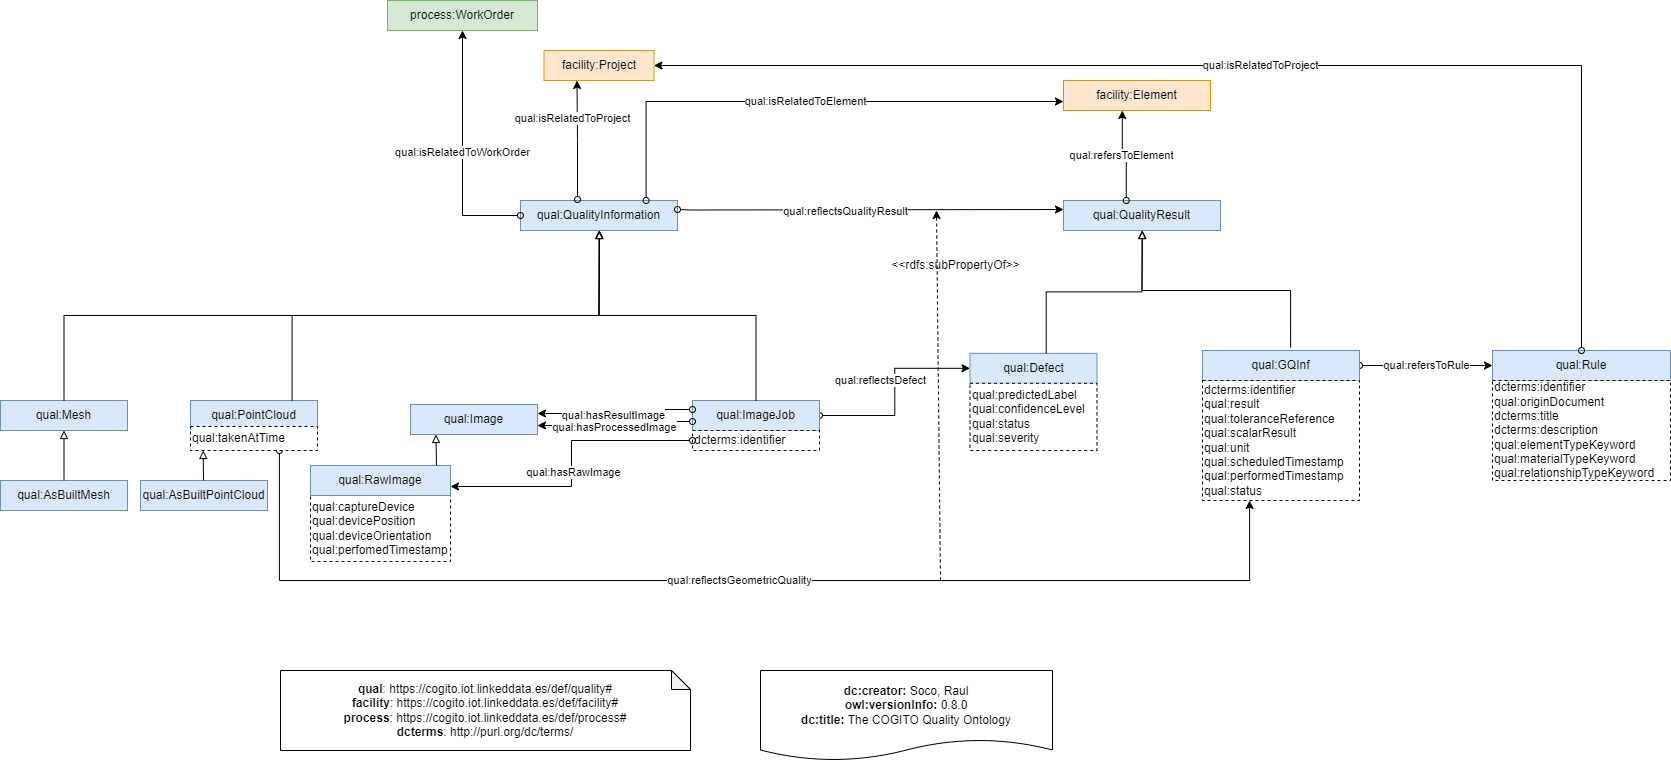
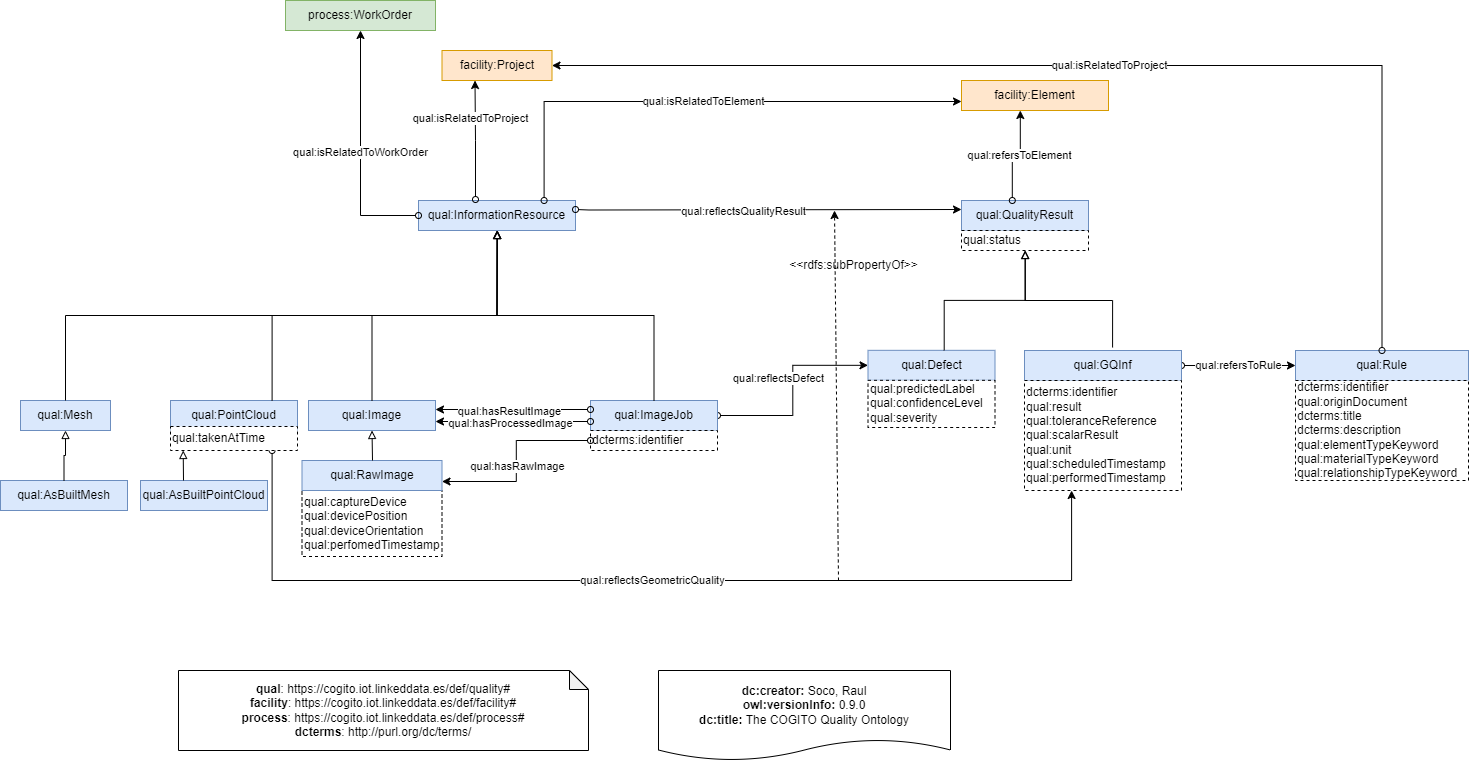
v0.9.0 update code and documentation

diff --git a/documentation/index-en.html b/documentation/index-en.html
@@ -6,7 +6,7 @@
 
 
 <!-- SCHEMA.ORG METADATA -->
-<script type="application/ld+json">{"@context":"https://schema.org","@type":"TechArticle","url":"https://cogito.iot.linkeddata.es/quality#","image":"http://vowl.visualdataweb.org/webvowl/#iri=https://cogito.iot.linkeddata.es/quality#","name":"Quality Ontology", "headline":"The COGITO Quality ontology aims at modelling the construction quality domain.", "datePublished":"Sat Oct 15 12:41:04 CEST 2022", "version":"0.8.0", "license":"http://purl.org/NET/rdflicense/cc-by4.0", "author":[{"@type":"Person","name":"María Poveda Villalón"},{"@type":"Person","name":"Raúl García Castro"},{"@type":"Person","name":"Socorro  Bernardos Galindo"}]}</script>
+<script type="application/ld+json">{"@context":"https://schema.org","@type":"TechArticle","url":"https://cogito.iot.linkeddata.es/quality#","image":"http://vowl.visualdataweb.org/webvowl/#iri=https://cogito.iot.linkeddata.es/quality#","name":"Quality Ontology", "headline":"The COGITO Quality ontology aims at modelling the construction quality domain.", "datePublished":"Thu Oct 27 08:13:21 CEST 2022", "version":"0.9.0", "license":"http://purl.org/NET/rdflicense/cc-by4.0", "author":[{"@type":"Person","name":"María Poveda Villalón"},{"@type":"Person","name":"Raúl García Castro"},{"@type":"Person","name":"Socorro  Bernardos Galindo"}]}</script>
 
 <script src="resources/jquery.js"></script> 
 <script src="resources/marked.min.js"></script> 
@@ -61,13 +61,13 @@ $(function(){
 <dt>Latest version:</dt>
 <dd><a href="https://cogito.iot.linkeddata.es/quality#">https://cogito.iot.linkeddata.es/quality#</a></dd>
 <dt>Revision:</dt>
-<dd>0.8.0</dd>
+<dd>0.9.0</dd>
 <dt>Authors:</dt>
 <dd>María Poveda Villalón</dd><dd>Raúl García Castro</dd><dd>Socorro  Bernardos Galindo</dd>
 
 <dt>Download serialization:</dt><dd><span><a href="ontology.jsonld" target="_blank"><img src="https://img.shields.io/badge/Format-JSON_LD-blue.svg" alt="JSON-LD" /></a> </span><span><a href="ontology.rdf" target="_blank"><img src="https://img.shields.io/badge/Format-RDF/XML-blue.svg" alt="RDF/XML" /></a> </span><span><a href="ontology.nt" target="_blank"><img src="https://img.shields.io/badge/Format-N_Triples-blue.svg" alt="N-Triples" /></a> </span><span><a href="ontology.ttl" target="_blank"><img src="https://img.shields.io/badge/Format-TTL-blue.svg" alt="TTL" /></a> </span></dd><dt>License: </dt><dd><a href="http://purl.org/NET/rdflicense/cc-by4.0" target="_blank"><img src="https://img.shields.io/badge/License-http://purl.org/NET/rdflicense/cc_by4.0-blue.svg" alt="http://purl.org/NET/rdflicense/cc-by4.0" /></a>
 </dd><!-- <dt>Evaluation:</dt><dd><a href="OOPSEvaluation/oopsEval.html#" target="_blank"><img src="https://img.shields.io/badge/Evaluate_with-OOPS! (OntOlogy Pitfall Scanner!)-blue.svg" alt="Evaluate with OOPS!" /></a></dd> --><dt>Cite as:</dt>
-<dd>María Poveda Villalón,Raúl García Castro,Socorro  Bernardos Galindo. Quality Ontology. Revision: 0.8.0.</dd>
+<dd>María Poveda Villalón,Raúl García Castro,Socorro  Bernardos Galindo. Quality Ontology. Revision: 0.9.0.</dd>
 </dl>
 <div>
 	<img src="resources/images/logo.jpg" width="300" alt="">
@@ -104,7 +104,6 @@ This document describes the results of the Quality ontology for the COGITO proje
 <tr><td><b>rdfs</b></td><td>&lt;http://www.w3.org/2000/01/rdf-schema&gt;</td></tr>
 <tr><td><b>facility</b></td><td>&lt;https://cogito.iot.linkeddata.es/def/facility&gt;</td></tr>
 <tr><td><b>dc</b></td><td>&lt;http://purl.org/dc/elements/1.1&gt;</td></tr>
-<tr><td><b>quality</b></td><td>&lt;https://cogito.iot.linkeddata.es/def/quality&gt;</td></tr>
 </tbody>
 </table>
 </div>
@@ -156,8 +155,8 @@ This ontology has the following classes and properties.</span>
          title="https://cogito.iot.linkeddata.es/def/facility#Project">Project</a>
    </li>
    <li>
-      <a href="#QualityInformation"
-         title="https://cogito.iot.linkeddata.es/quality#QualityInformation">Quality Information</a>
+      <a href="#InformationResource"
+         title="https://cogito.iot.linkeddata.es/quality#InformationResource">Quality Information</a>
    </li>
    <li>
       <a href="#QualityResult"
@@ -356,8 +355,8 @@ This section provides details for each class and property defined by Quality Ont
             title="https://cogito.iot.linkeddata.es/def/facility#Project">Project</a>
       </li>
       <li>
-         <a href="#QualityInformation"
-            title="https://cogito.iot.linkeddata.es/quality#QualityInformation">Quality Information</a>
+         <a href="#InformationResource"
+            title="https://cogito.iot.linkeddata.es/quality#InformationResource">Quality Information</a>
       </li>
       <li>
          <a href="#QualityResult"
@@ -494,6 +493,12 @@ This section provides details for each class and property defined by Quality Ont
          <span class="markdown">A picture of an entity</span>
       </div>
       <dl class="description">
+         <dt>has super-classes</dt>
+         <dd>
+            <a href="#InformationResource"
+               title="https://cogito.iot.linkeddata.es/quality#InformationResource">Quality Information</a>
+            <sup class="type-c" title="class">c</sup>
+         </dd>
          <dt>has sub-classes</dt>
          <dd>
             <a href="#RawImage"
@@ -523,8 +528,8 @@ This section provides details for each class and property defined by Quality Ont
       <dl class="description">
          <dt>has super-classes</dt>
          <dd>
-            <a href="#QualityInformation"
-               title="https://cogito.iot.linkeddata.es/quality#QualityInformation">Quality Information</a>
+            <a href="#InformationResource"
+               title="https://cogito.iot.linkeddata.es/quality#InformationResource">Quality Information</a>
             <sup class="type-c" title="class">c</sup>
          </dd>
       </dl>
@@ -542,8 +547,8 @@ This section provides details for each class and property defined by Quality Ont
       <dl class="description">
          <dt>has super-classes</dt>
          <dd>
-            <a href="#QualityInformation"
-               title="https://cogito.iot.linkeddata.es/quality#QualityInformation">Quality Information</a>
+            <a href="#InformationResource"
+               title="https://cogito.iot.linkeddata.es/quality#InformationResource">Quality Information</a>
             <sup class="type-c" title="class">c</sup>
          </dd>
          <dt>has sub-classes</dt>
@@ -567,8 +572,8 @@ This section provides details for each class and property defined by Quality Ont
       <dl class="description">
          <dt>has super-classes</dt>
          <dd>
-            <a href="#QualityInformation"
-               title="https://cogito.iot.linkeddata.es/quality#QualityInformation">Quality Information</a>
+            <a href="#InformationResource"
+               title="https://cogito.iot.linkeddata.es/quality#InformationResource">Quality Information</a>
             <sup class="type-c" title="class">c</sup>
          </dd>
          <dt>has sub-classes</dt>
@@ -598,20 +603,21 @@ This section provides details for each class and property defined by Quality Ont
          </dd>
       </dl>
    </div>
-   <div class="entity" id="QualityInformation">
+   <div class="entity" id="InformationResource">
       <h3>Quality Information<sup class="type-c" title="class">c</sup>
          <span class="backlink"> back to <a href="#toc">ToC</a> or <a href="#classes">Class ToC</a>
          </span>
       </h3>
       <p>
-         <strong>IRI:</strong> https://cogito.iot.linkeddata.es/quality#QualityInformation</p>
+         <strong>IRI:</strong> https://cogito.iot.linkeddata.es/quality#InformationResource</p>
       <div class="comment">
-         <span class="markdown">Data regarding  the quality of an entity (especially a facility:Project or facility:Element)</span>
+         <span class="markdown">Data regarding  the quality of an entity (especially a facility:Project or facility:Element) and that may have associated files</span>
       </div>
       <dl class="description">
          <dt>has sub-classes</dt>
          <dd>
-            <a href="#ImageJob"
+            <a href="#Image" title="https://cogito.iot.linkeddata.es/quality#Image">Image</a>
+            <sup class="type-c" title="class">c</sup>, <a href="#ImageJob"
                title="https://cogito.iot.linkeddata.es/quality#ImageJob">Image Job</a>
             <sup class="type-c" title="class">c</sup>, <a href="#Mesh" title="https://cogito.iot.linkeddata.es/quality#Mesh">Mesh</a>
             <sup class="type-c" title="class">c</sup>, <a href="#PointCoud"
